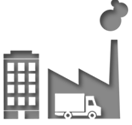
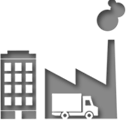
fixed commercial button

Changed region(s): [[0.3333, 0.3, 0.9524, 1.0], [0.0, 0.4, 0.3095, 1.0], [0.7381, 0.0, 1.0, 0.275]]

diff --git a/sass/templates/_header.scss b/sass/templates/_header.scss
@@ -147,6 +147,9 @@ header{
 	.menu{
 		width: 35%;
 		float: left;
+		.personal a, .commercial a {
+			border-bottom: 2px solid transparent;
+		}
 		li{	
 			display: inline-block;
 			width: 50%;
@@ -154,26 +157,46 @@ header{
 				color: $grey;
 				display: inline-block;
 				transition: color 0.5s;
-				&:hover .menu-text{
+				&:hover{
 					border-bottom: 2px solid rgba(255,191,56,0.76);
 				}
+			}
+
+			&.menu-item a {
+				padding:0 5px;
 			}
 		}
 		.personal{
 			position: relative;
 			top: 25px;
+			.menu-icon {
+				@include menuImg('img/personal.png');
+				width: 68px;
+				top:4px;
+			}
+
+			a:hover .menu-icon {
+				@include menuImg('img/personal-hover.png');
+				width: 68px;
+				top:4px;
+			}
 		}
-		.personal .menu-text, .commercial .menu-text{
-			border-bottom: 2px solid transparent;
-		}
-		.personal .menu-icon {
-			@include menuImg('img/personal.png');
-			width: 68px;
-		}
-		.commercial .menu-icon{
-			@include menuImg('img/commercial.png');
-			height: 70px;
-			width: 73px;
+		.commercial {
+			position: relative;
+			top: 3px;
+			.menu-icon{
+				@include menuImg('img/commercial.png');
+				height: 70px;
+				width: 73px;
+				top:4px;
+			}
+
+			a:hover .menu-icon {
+				@include menuImg('img/commercial-hover.png');
+				height: 70px;
+    			width: 73px;
+				top:4px;
+			}
 		}
 	}
 	.menu-info-container{

diff --git a/template-parts/content-page.php b/template-parts/content-page.php
@@ -9,7 +9,7 @@
 
 ?>
 
-<article id="post-<?php the_ID(); ?>" <?php post_class(); ?>
+<article id="post-<?php the_ID(); ?>" <?php post_class(); ?>>
 	<nav class="clearfix page-heading">
 		<h2 class="entry-title">
 			<span class='desktop'><?=getMcClellandPageParentName($post)?></span>
@@ -23,7 +23,7 @@
 			"echo"=>0
 		]);
 
-		if(! $submenu  && wp_get_nav_menu_object(getMcClellandMenuName($post))) {\
+		if(! $submenu  && wp_get_nav_menu_object(getMcClellandMenuName($post))) {
 			$submenu = wp_nav_menu( [
 				"menu"=> getMcClellandMenuName($post),
 				"link_before"=>"<span>",

diff --git a/footer.php b/footer.php
@@ -28,7 +28,7 @@
 						</li>
 					</ul>
 					<div class="info-menu">
-						<?php wp_nav_menu( array( 'theme_location' => 'info', 'menu_id' => 'info', 'depth'=>1 ) ); ?>
+						<?php wp_nav_menu( array( 'theme_location' => 'info', 'menu_id' => 'info', 'depth'=>1, 'link_before'=>'<span class="menu-text">', 'link_after'=>'</span>' ) ); ?>
 					</div>
 				</div>
 			</nav>

diff --git a/front-page.php b/front-page.php
@@ -5,7 +5,9 @@ get_header(); ?>
 	<div id="primary" class="content-area home">
 		<main id="main" class="site-main" role="main">
 			<div class="main-gallery">
-				<?php the_content() ?>
+				<?php while ( have_posts() ) : the_post(); ?>
+					<?php the_content() ?>
+				<?php endwhile ?>
 			</div>
 			
 
